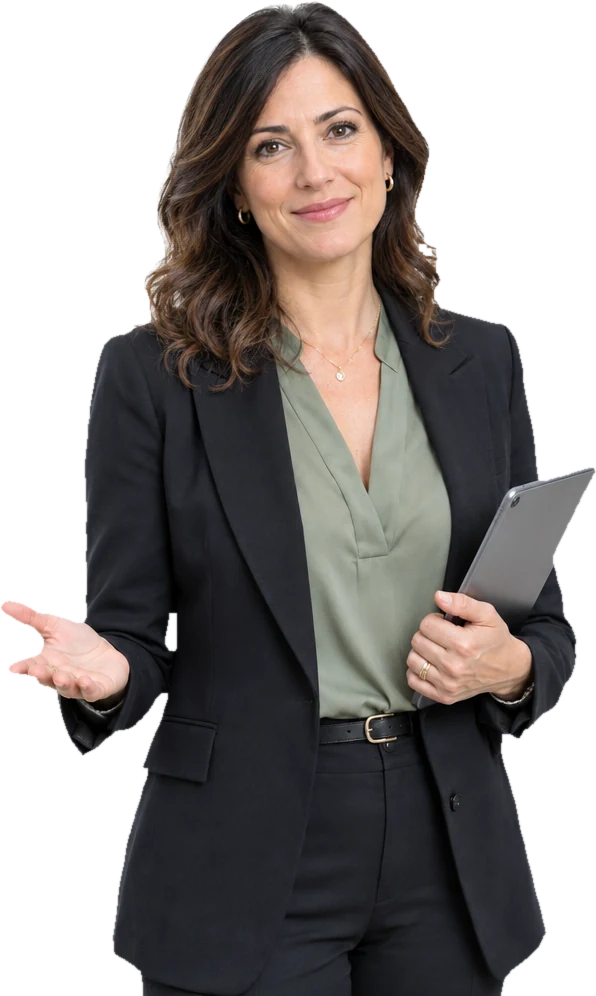
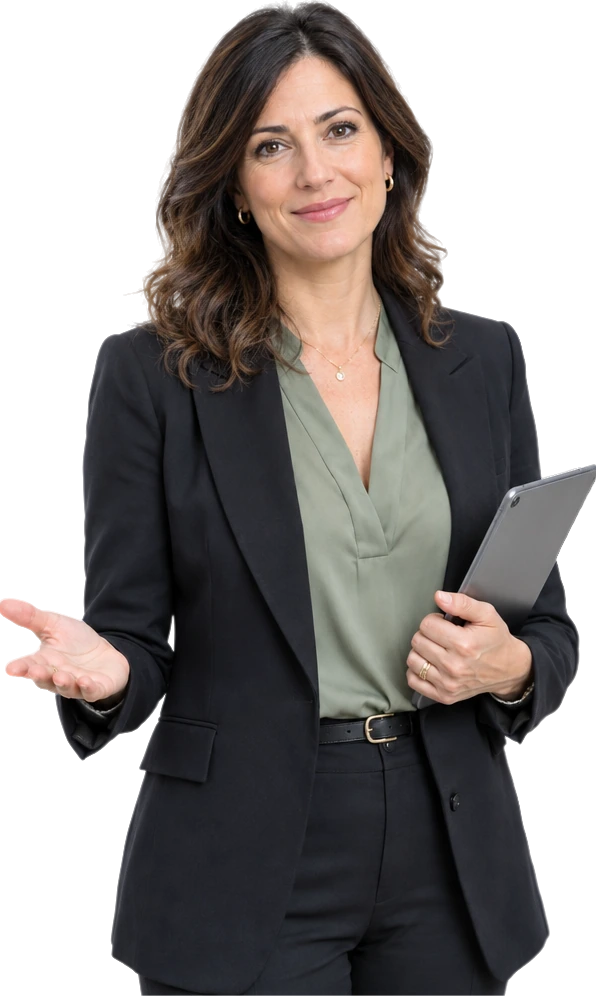
Hero: figura senza alone chiaro, box 1440, header allineato, CTA a sinistra
- Figura: bordo ricalcolato come matting a fondo bianco noto (alpha e colore
  decontaminati, buchi tra le ciocche trasparenti, viso/occhi/tablet protetti):
  pixel di bordo chiari 562 -> 7, bianchi semitrasparenti 290 -> 6
- Hero e header nello stesso box da 1440px: logo a filo dell'inizio (compensato
  il padding del viewBox di ciascun marchio), ultima voce e linea dell'arco a
  filo della fine; CTA nav fuori dal flusso finché nascosta; sticky bar nel box
- Desktop: CTA e badge allineati a sinistra col testo
- "il primo passo" sopra la freccia sullo stesso asse, freccia verso la CTA
  (mobile e desktop), in flusso invece che assoluta
- Badge più spaziati (16px desktop, 12px mobile); hero mobile sempre entro 100vh
- Desktop bassi (<=820px di altezza): titolo e appunto compattati per restare
  nel primo viewport; decorazioni dell'hero nei margini, mai sul testo

diff --git a/assets/css/main.css b/assets/css/main.css
@@ -59,6 +59,7 @@
   --ease-soft: cubic-bezier(0.32, 0.72, 0, 1);
   --ease-draw: cubic-bezier(0.62, 0, 0.12, 1);
   --gutter: clamp(22px, 5vw, 88px);
+  --box-hero: 1440px;              /* hero e header: contenuto boxed a 1440 */
   --respiro: clamp(110px, 15vw, 230px);
 }
 
@@ -216,19 +217,24 @@ html.js .in .freccia-tec .punta, html.js .freccia-tec.in .punta { transition-del
    ============================================================ */
 .nav {
   position: absolute; top: 0; left: 0; right: 0; z-index: 40;
-  padding: 24px var(--gutter);
+  padding: 24px 0;
 }
+/* stesso box dell'hero: logo sull'inizio, ultima voce sulla fine */
 .nav__interno {
   display: flex; align-items: center; justify-content: space-between; gap: 24px;
-  width: 100%; max-width: 1280px; margin-inline: auto;
+  width: 100%; max-width: calc(var(--box-hero) + 2 * var(--gutter)); margin-inline: auto;
+  padding-inline: var(--gutter);
 }
-.nav__logo img { height: 74px; width: auto; }
+.nav__logo { display: block; line-height: 0; }
+/* il marchio ha aria nel viewBox (34.24/841.89): lo porto a filo col testo dell'hero */
+.nav__logo img { height: 74px; width: auto; transform: translateX(-4.07%); }
 .nav__destra { display: flex; align-items: center; gap: 26px; }
 .nav__voce { font-family: var(--sans); font-weight: 500; font-size: 13.5px; color: var(--avorio); text-decoration: none; }
 .nav__voce:hover { color: var(--salvia-chiara); }
 .btn--nav { padding: 12px 22px; font-size: 11.5px; }
-html.js .btn--nav { opacity: 0; transform: translateY(-6px); pointer-events: none; visibility: hidden; transition: opacity 300ms var(--ease-soft), transform 300ms var(--ease-soft), visibility 0s 300ms; }
-html.js .nav--cta .btn--nav { opacity: 1; transform: none; pointer-events: auto; visibility: visible; transition: opacity 300ms var(--ease-soft), transform 300ms var(--ease-soft); }
+/* la CTA in nav non occupa spazio finché è nascosta: le voci chiudono sul bordo dell'hero */
+html.js .btn--nav { display: none; }
+html.js .nav--cta .btn--nav { display: inline-flex; }
 @media (max-width: 860px) {
   .nav__voce { display: none; }
   .nav__logo img { height: 58px; }
@@ -240,7 +246,7 @@ html.js .nav--cta .btn--nav { opacity: 1; transform: none; pointer-events: auto;
   background: rgba(13, 47, 55, 0.9);
   -webkit-backdrop-filter: blur(12px); backdrop-filter: blur(12px);
   border-bottom: 1px solid var(--hairline-scuro-forte);
-  padding: 10px var(--gutter);
+  padding: 10px max(var(--gutter), calc((100% - var(--box-hero)) / 2));   /* stesso box 1440 dell'hero */
   transform: translateY(-110%);
   visibility: hidden;
   transition: transform 550ms var(--ease-soft), visibility 0s 550ms;
@@ -302,11 +308,13 @@ html.js .btn--hero { animation: respiro 5.5s ease-in-out infinite 2s; }
   min-height: 100vh; min-height: 100svh;
   display: flex; align-items: stretch;
   padding-top: clamp(96px, 12vh, 130px);
+  /* spazio fuori dal box 1440 (per tenere le decorazioni nel margine, mai sul testo) */
+  --fuori-box: max(0px, (100% - var(--box-hero) - 2 * var(--gutter)) / 2);
 }
 .hero__grid {
   display: grid; grid-template-columns: minmax(0, 6.8fr) minmax(0, 5.2fr);
   align-items: center; gap: clamp(24px, 3vw, 56px);
-  width: 100%; max-width: 1280px; margin-inline: auto;
+  width: 100%; max-width: calc(var(--box-hero) + 2 * var(--gutter)); margin-inline: auto;
   padding: 0 var(--gutter) clamp(48px, 7vh, 90px);
   position: relative; z-index: 1;
 }
@@ -329,16 +337,20 @@ html.js .marca::before { transform-origin: left center; transform: skewX(-4deg) 
 html.js .in .marca::before, html.js .marca.in::before { transform: skewX(-4deg) scaleX(1); }
 .hero__sub { margin: 0 0 clamp(14px, 2vh, 22px) 0; max-width: 30ch; font-size: clamp(19px, 1.8vw, 24px); line-height: 1.5; color: var(--avorio-85); font-family: var(--sans); font-weight: 400; }
 .hero__sub strong { font-weight: 600; color: var(--bianco); }
-.hero__lead { margin: 0 0 clamp(48px, 6.5vh, 72px) 0; max-width: 52ch; font-size: 15.5px; line-height: 1.7; color: var(--avorio-70); }
-.hero__azione { position: relative; display: inline-flex; flex-direction: column; align-items: center; }
-/* appunto + freccia sopra la CTA */
-.con-appunto--hero { position: absolute; left: 0; right: 0; top: 0; height: 0; }
-.con-appunto--hero .appunto { position: absolute; left: 6px; top: -58px; --rot: -6deg; }
-.con-appunto--hero .freccia-tec { position: absolute; left: 148px; top: -50px; width: 46px; }
-/* microfatti: i due fatti di servizio, centrati e in evidenza */
+.hero__lead { margin: 0 0 clamp(14px, 2.4vh, 26px) 0; max-width: 52ch; font-size: 15.5px; line-height: 1.7; color: var(--avorio-70); }
+/* CTA a filo sinistro col testo */
+.hero__azione { position: relative; display: inline-flex; flex-direction: column; align-items: flex-start; }
+/* appunto + freccia sopra la CTA, uno sopra l'altro sullo stesso asse */
+.con-appunto--hero {
+  position: relative; display: inline-flex; flex-direction: column; align-items: center; gap: 2px;
+  margin: 0 0 8px 34px;
+}
+.con-appunto--hero .appunto { position: static; display: block; --rot: -4deg; }
+.con-appunto--hero .freccia-tec { position: static; display: block; width: 26px; }
+/* microfatti: i due fatti di servizio, allineati alla CTA */
 .microfatti {
-  list-style: none; margin: 18px 0 0 0; padding: 0;
-  display: flex; align-items: center; justify-content: center; gap: 10px; flex-wrap: wrap;
+  list-style: none; margin: 20px 0 0 0; padding: 0;
+  display: flex; align-items: center; justify-content: flex-start; gap: 10px 16px; flex-wrap: wrap;
 }
 .microfatti li {
   display: inline-flex; align-items: center; gap: 9px;
@@ -352,7 +364,8 @@ html.js .in .marca::before, html.js .marca.in::before { transform: skewX(-4deg) 
 .microfatti li img { width: 26px; height: 26px; object-fit: contain; flex: none; background: var(--avorio); border-radius: 50%; padding: 2px; }
 
 /* colonna figura — arco con chiave di volta come la v1 */
-.hero__figura { position: relative; margin: 0; display: flex; align-items: flex-end; justify-content: center; padding-bottom: clamp(12px, 2vh, 28px); }
+/* l'arco (con la sua linea esterna a -14px) chiude sul bordo destro del box, come le voci del menu */
+.hero__figura { position: relative; margin: 0; display: flex; align-items: flex-end; justify-content: flex-end; padding: 0 14px clamp(12px, 2vh, 28px); }
 .hero__arch { position: relative; width: min(100%, 430px); }
 .hero__arch::before {
   content: ""; position: absolute; top: -14px; right: -14px; bottom: 0; left: -14px;
@@ -956,14 +969,15 @@ html.js .in .riga > span, html.js .riga.in > span { transform: translateY(0); }
   .hero__content { display: contents; }
   .hero__title { order: 1; margin-bottom: 0; }
   .hero__sub { order: 2; margin: 0 0 4px 0; max-width: none; }
-  .hero__figura { order: 3; margin: 4px auto 12px; width: min(68%, 265px); }
-  .hero__azione { order: 4; margin-top: 42px; display: flex; }
+  .hero__figura { order: 3; margin: 4px auto 12px; width: min(68%, 265px); padding-inline: 0; justify-content: center; }
+  /* l'appunto sale nella fascia di "dalla tua parte" (lato opposto), sotto la fine della linea d'arco */
+  .hero__azione { order: 4; margin-top: -24px; display: flex; }
   .hero__lead { order: 5; margin: 30px 0 0 0; }
   .appunto--figura { bottom: -24px; }
   .hero__arch-chiave { top: -26px; width: 38px; height: 28px; }
-  .con-appunto--hero .appunto { left: 2px; top: -48px; }
-  .con-appunto--hero .freccia-tec { left: 126px; top: -42px; width: 36px; }
-  .microfatti { margin-top: 10px; gap: 6px; }
+  .con-appunto--hero { margin: 0 0 8px 26px; }
+  .con-appunto--hero .freccia-tec { width: 16px; }
+  .microfatti { margin-top: 12px; gap: 12px; }
   .microfatti li { font-size: 11.5px; padding: 5px 12px 5px 7px; gap: 6px; }
   .microfatti li img { width: 20px; height: 20px; }
 }
@@ -976,10 +990,21 @@ html.js .in .riga > span, html.js .riga.in > span { transform: translateY(0); }
   /* niente blur animato sui telefoni: solo opacity+transform */
   html.js .rv { filter: none; transition: opacity 900ms var(--ease), transform 900ms var(--ease); transition-delay: var(--d, 0ms); }
   .hero__title { font-size: clamp(38px, 10.4vw, 54px); }
+  .hero__azione { align-items: stretch; }
   .hero__azione .btn { width: 100%; }
+  .con-appunto--hero { align-self: flex-start; }
+  .hero__azione .microfatti { justify-content: center; }
   .reframe .blocco { font-size: 17.5px; }
   .statement { font-size: clamp(30px, 8.6vw, 44px); }
 }
+/* desktop bassi (1280x720, 1366x768): l'hero resta dentro il primo viewport */
+@media (min-width: 981px) and (max-height: 820px) {
+  .hero__title { font-size: clamp(44px, min(7.2vw, 11vh), 88px); }
+  .con-appunto--hero { margin-bottom: 4px; }
+  .con-appunto--hero .freccia-tec { width: 20px; }
+  .microfatti { margin-top: 14px; }
+}
 @media (max-width: 640px) {
+  html:not(.js) .btn--nav { display: none; }
   .appunto--form, .ripresa .con-appunto { display: none; }
 }

diff --git a/hero-bianco/index.html b/hero-bianco/index.html
@@ -41,6 +41,8 @@ html.js .tema-chiaro .btn--hero { animation-name: respiro-notte; }
 .tema-chiaro .hero__arch::before { border-color: rgba(17, 59, 68, 0.35); }
 .tema-chiaro .hero .alone .a1 { background: radial-gradient(circle, rgba(59, 138, 100, 0.14), transparent 68%); }
 .tema-chiaro .hero .alone .a2 { background: radial-gradient(circle, rgba(59, 138, 100, 0.1), transparent 70%); }
+/* il marchio a colori ha più aria a sinistra nel viewBox (54/841.89) */
+.tema-chiaro .nav__logo img { transform: translateX(-6.41%); }
 .tema-chiaro .nav__voce { color: var(--notte); }
 .tema-chiaro .nav__voce:hover { color: var(--bosco-testo); }
 .tema-chiaro .hero :focus-visible { outline-color: var(--bosco); }
@@ -79,8 +81,8 @@ html.js .tema-chiaro .btn--hero { animation-name: respiro-notte; }
   <!-- 01 · HERO — doppia colonna come la v1, marca verde, appunti verso la CTA -->
   <section class="hero" aria-labelledby="hero-title">
     <div class="alone" aria-hidden="true"><i class="a1"></i><i class="a2"></i></div>
-    <span class="deco deco--sparkle" style="left:6%; top:18%; width:22px; --fd:0.6s" aria-hidden="true"><svg viewBox="0 0 24 24"><path d="M12 2 C13 8 16 11 22 12 C16 13 13 16 12 22 C11 16 8 13 2 12 C8 11 11 8 12 2 Z"/></svg></span>
-    <span class="deco deco--asterisco" style="right:8%; top:14%; width:30px; --rot:12deg; --fd:1.4s" aria-hidden="true"><svg viewBox="0 0 32 32"><path d="M16 3 V29 M5 9.5 L27 22.5 M27 9.5 L5 22.5"/></svg></span>
+    <span class="deco deco--sparkle" style="left:calc(var(--fuori-box) + max(2px, var(--gutter) / 2 - 11px)); top:18%; width:22px; --fd:0.6s" aria-hidden="true"><svg viewBox="0 0 24 24"><path d="M12 2 C13 8 16 11 22 12 C16 13 13 16 12 22 C11 16 8 13 2 12 C8 11 11 8 12 2 Z"/></svg></span>
+    <span class="deco deco--asterisco" style="right:calc(var(--fuori-box) + max(10px, var(--gutter) / 2 - 15px)); top:14%; width:30px; --rot:12deg; --fd:1.4s" aria-hidden="true"><svg viewBox="0 0 32 32"><path d="M16 3 V29 M5 9.5 L27 22.5 M27 9.5 L5 22.5"/></svg></span>
     <div class="hero__grid">
       <div class="hero__content">
         <h1 class="hero__title" id="hero-title">
@@ -93,7 +95,7 @@ html.js .tema-chiaro .btn--hero { animation-name: respiro-notte; }
           <span class="con-appunto con-appunto--hero" aria-hidden="true">
             <span class="appunto">il primo passo</span>
             <span class="freccia-tec">
-              <svg viewBox="0 0 60 46"><path pathLength="1" d="M52 4 C 40 16, 26 26, 12 38"/><path pathLength="1" class="punta" d="M12 38 l12 -3 m-12 3 l3 -12"/></svg>
+              <svg viewBox="0 0 30 48"><path pathLength="1" d="M15 3 C 19 16, 19 30, 15 44"/><path pathLength="1" class="punta" d="M15 44 l6 -7 m-6 7 l-6 -7"/></svg>
             </span>
           </span>
           <a class="btn btn--hero" id="cta-hero" href="#verifica">Cancella il Debito <span class="btn__freccia" aria-hidden="true">→</span></a>

diff --git a/index.html b/index.html
@@ -48,8 +48,8 @@
   <!-- 01 · HERO — doppia colonna come la v1, marca verde, appunti verso la CTA -->
   <section class="hero" aria-labelledby="hero-title">
     <div class="alone" aria-hidden="true"><i class="a1"></i><i class="a2"></i></div>
-    <span class="deco deco--sparkle" style="left:6%; top:18%; width:22px; --fd:0.6s" aria-hidden="true"><svg viewBox="0 0 24 24"><path d="M12 2 C13 8 16 11 22 12 C16 13 13 16 12 22 C11 16 8 13 2 12 C8 11 11 8 12 2 Z"/></svg></span>
-    <span class="deco deco--asterisco" style="right:8%; top:14%; width:30px; --rot:12deg; --fd:1.4s" aria-hidden="true"><svg viewBox="0 0 32 32"><path d="M16 3 V29 M5 9.5 L27 22.5 M27 9.5 L5 22.5"/></svg></span>
+    <span class="deco deco--sparkle" style="left:calc(var(--fuori-box) + max(2px, var(--gutter) / 2 - 11px)); top:18%; width:22px; --fd:0.6s" aria-hidden="true"><svg viewBox="0 0 24 24"><path d="M12 2 C13 8 16 11 22 12 C16 13 13 16 12 22 C11 16 8 13 2 12 C8 11 11 8 12 2 Z"/></svg></span>
+    <span class="deco deco--asterisco" style="right:calc(var(--fuori-box) + max(10px, var(--gutter) / 2 - 15px)); top:14%; width:30px; --rot:12deg; --fd:1.4s" aria-hidden="true"><svg viewBox="0 0 32 32"><path d="M16 3 V29 M5 9.5 L27 22.5 M27 9.5 L5 22.5"/></svg></span>
     <div class="hero__grid">
       <div class="hero__content">
         <h1 class="hero__title" id="hero-title">
@@ -62,7 +62,7 @@
           <span class="con-appunto con-appunto--hero" aria-hidden="true">
             <span class="appunto">il primo passo</span>
             <span class="freccia-tec">
-              <svg viewBox="0 0 60 46"><path pathLength="1" d="M52 4 C 40 16, 26 26, 12 38"/><path pathLength="1" class="punta" d="M12 38 l12 -3 m-12 3 l3 -12"/></svg>
+              <svg viewBox="0 0 30 48"><path pathLength="1" d="M15 3 C 19 16, 19 30, 15 44"/><path pathLength="1" class="punta" d="M15 44 l6 -7 m-6 7 l-6 -7"/></svg>
             </span>
           </span>
           <a class="btn btn--hero" id="cta-hero" href="#verifica">Cancella il Debito <span class="btn__freccia" aria-hidden="true">→</span></a>
